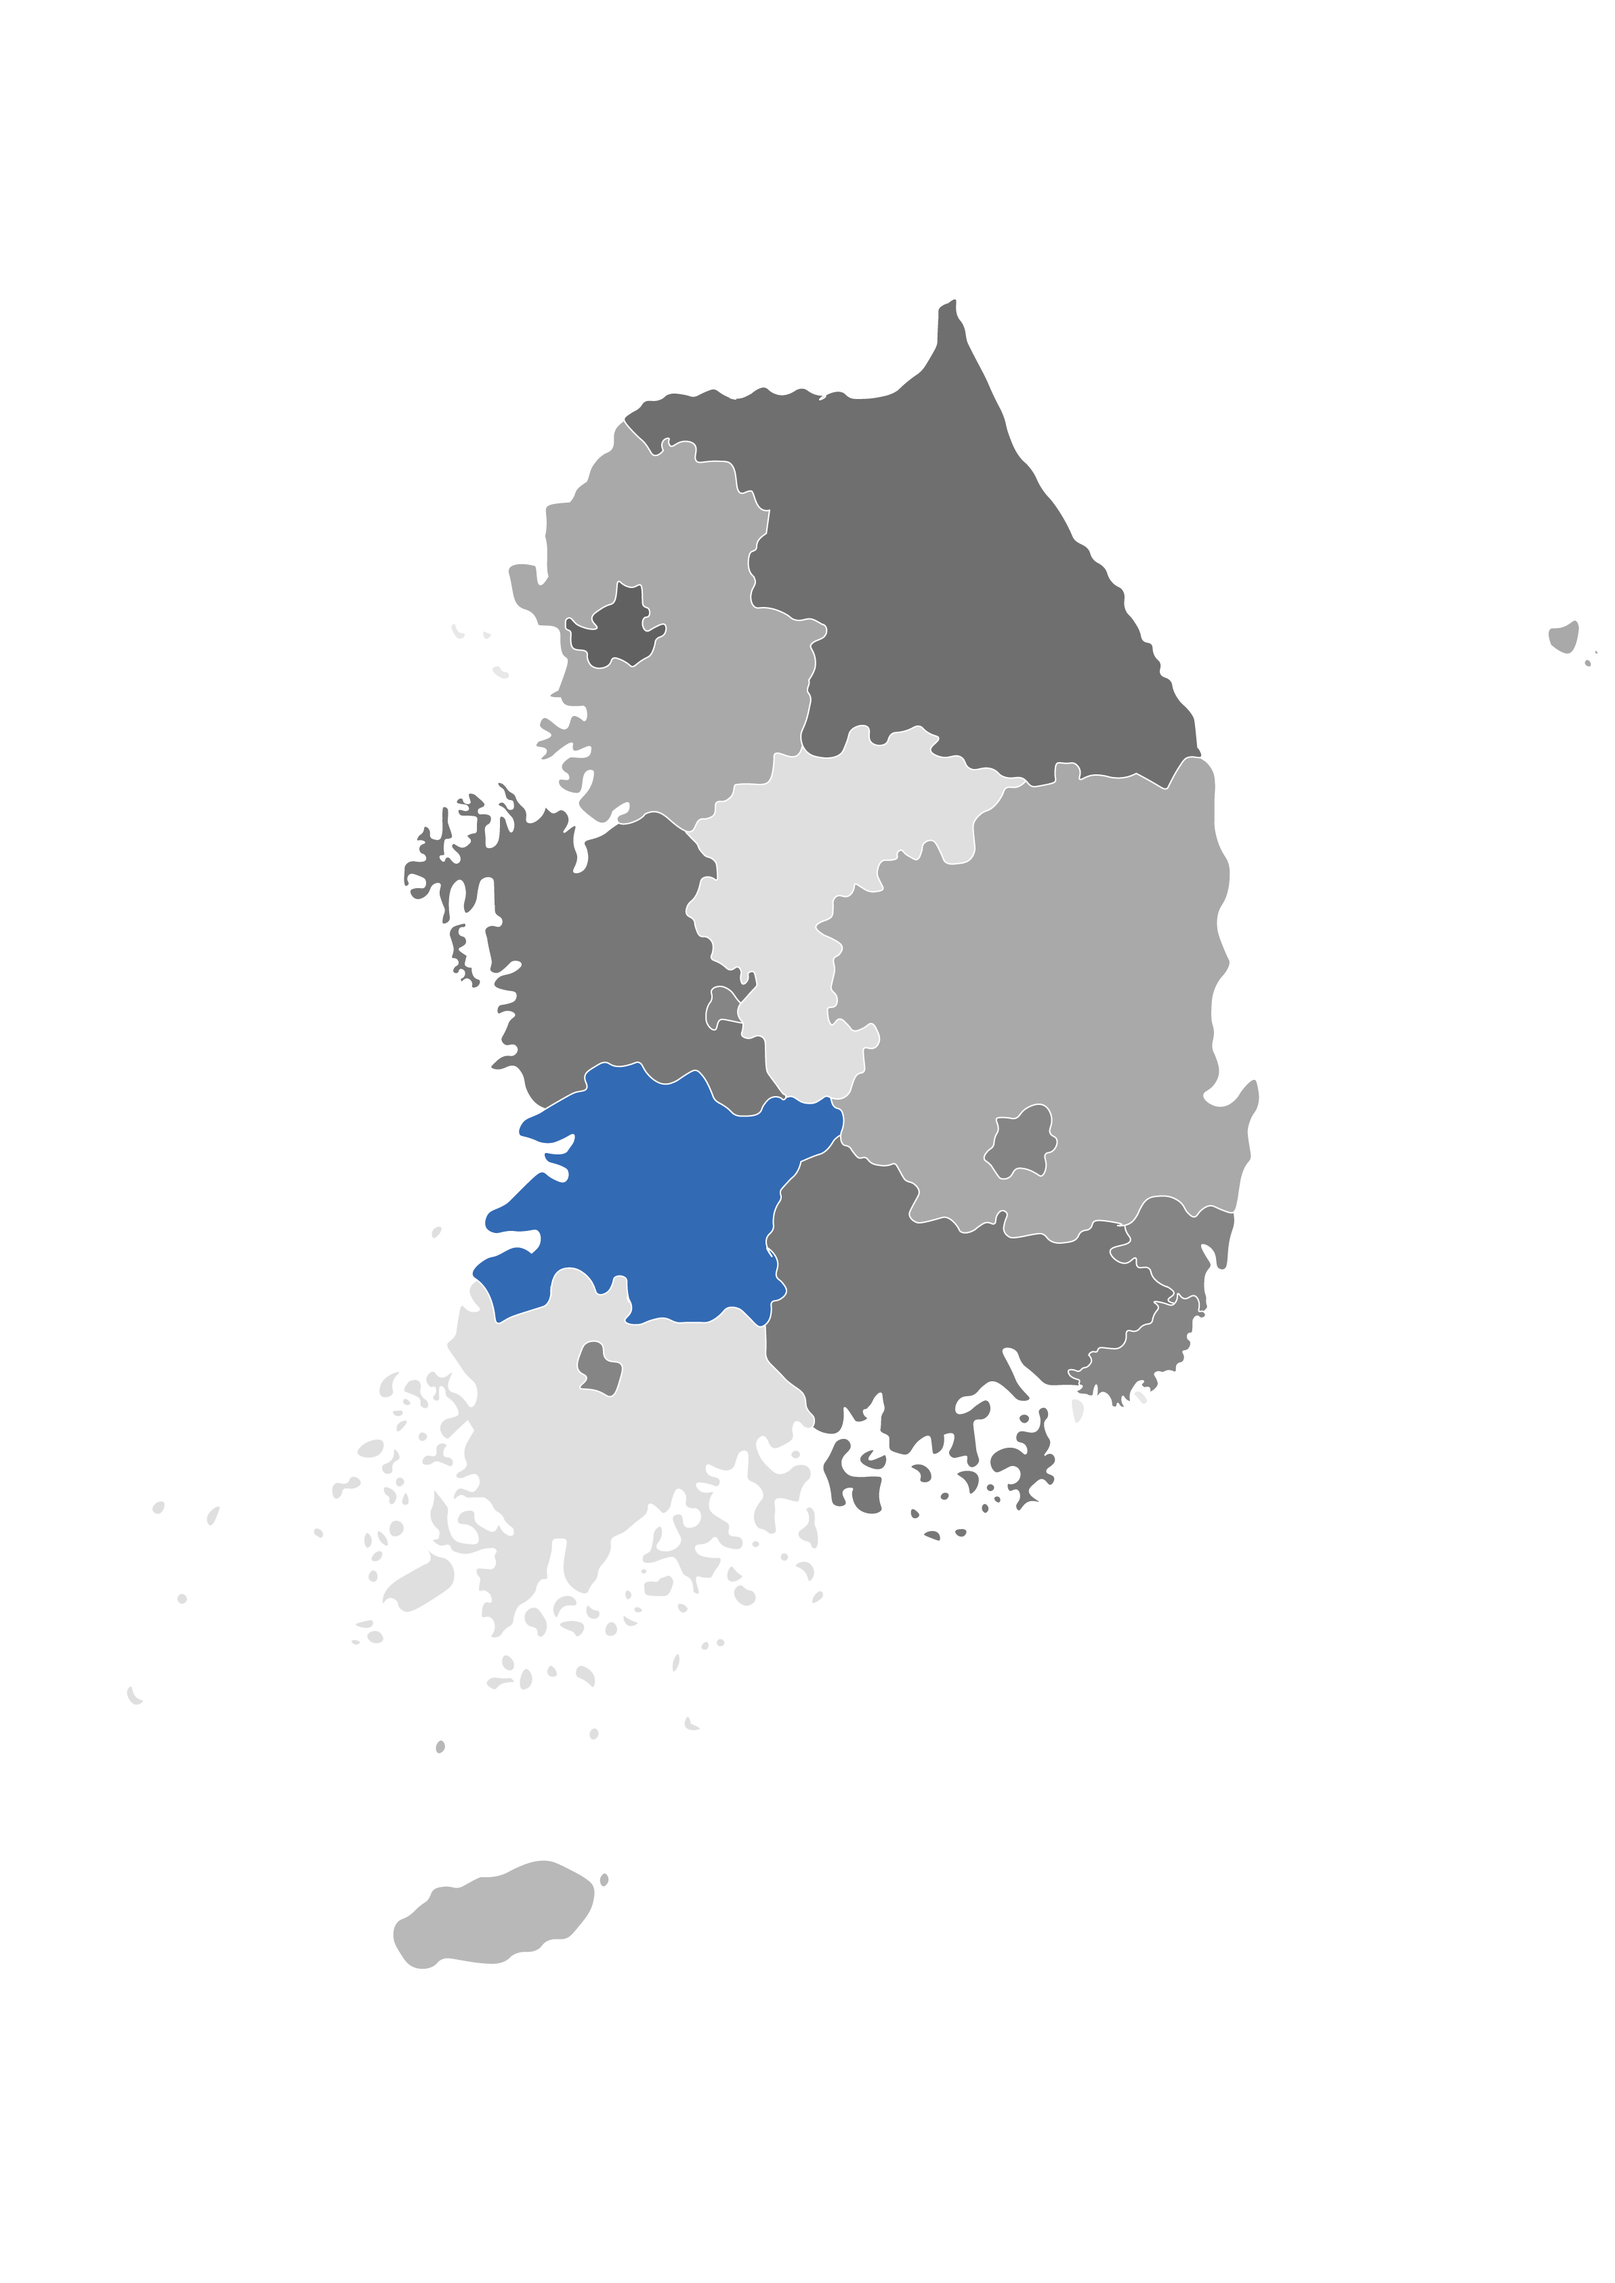
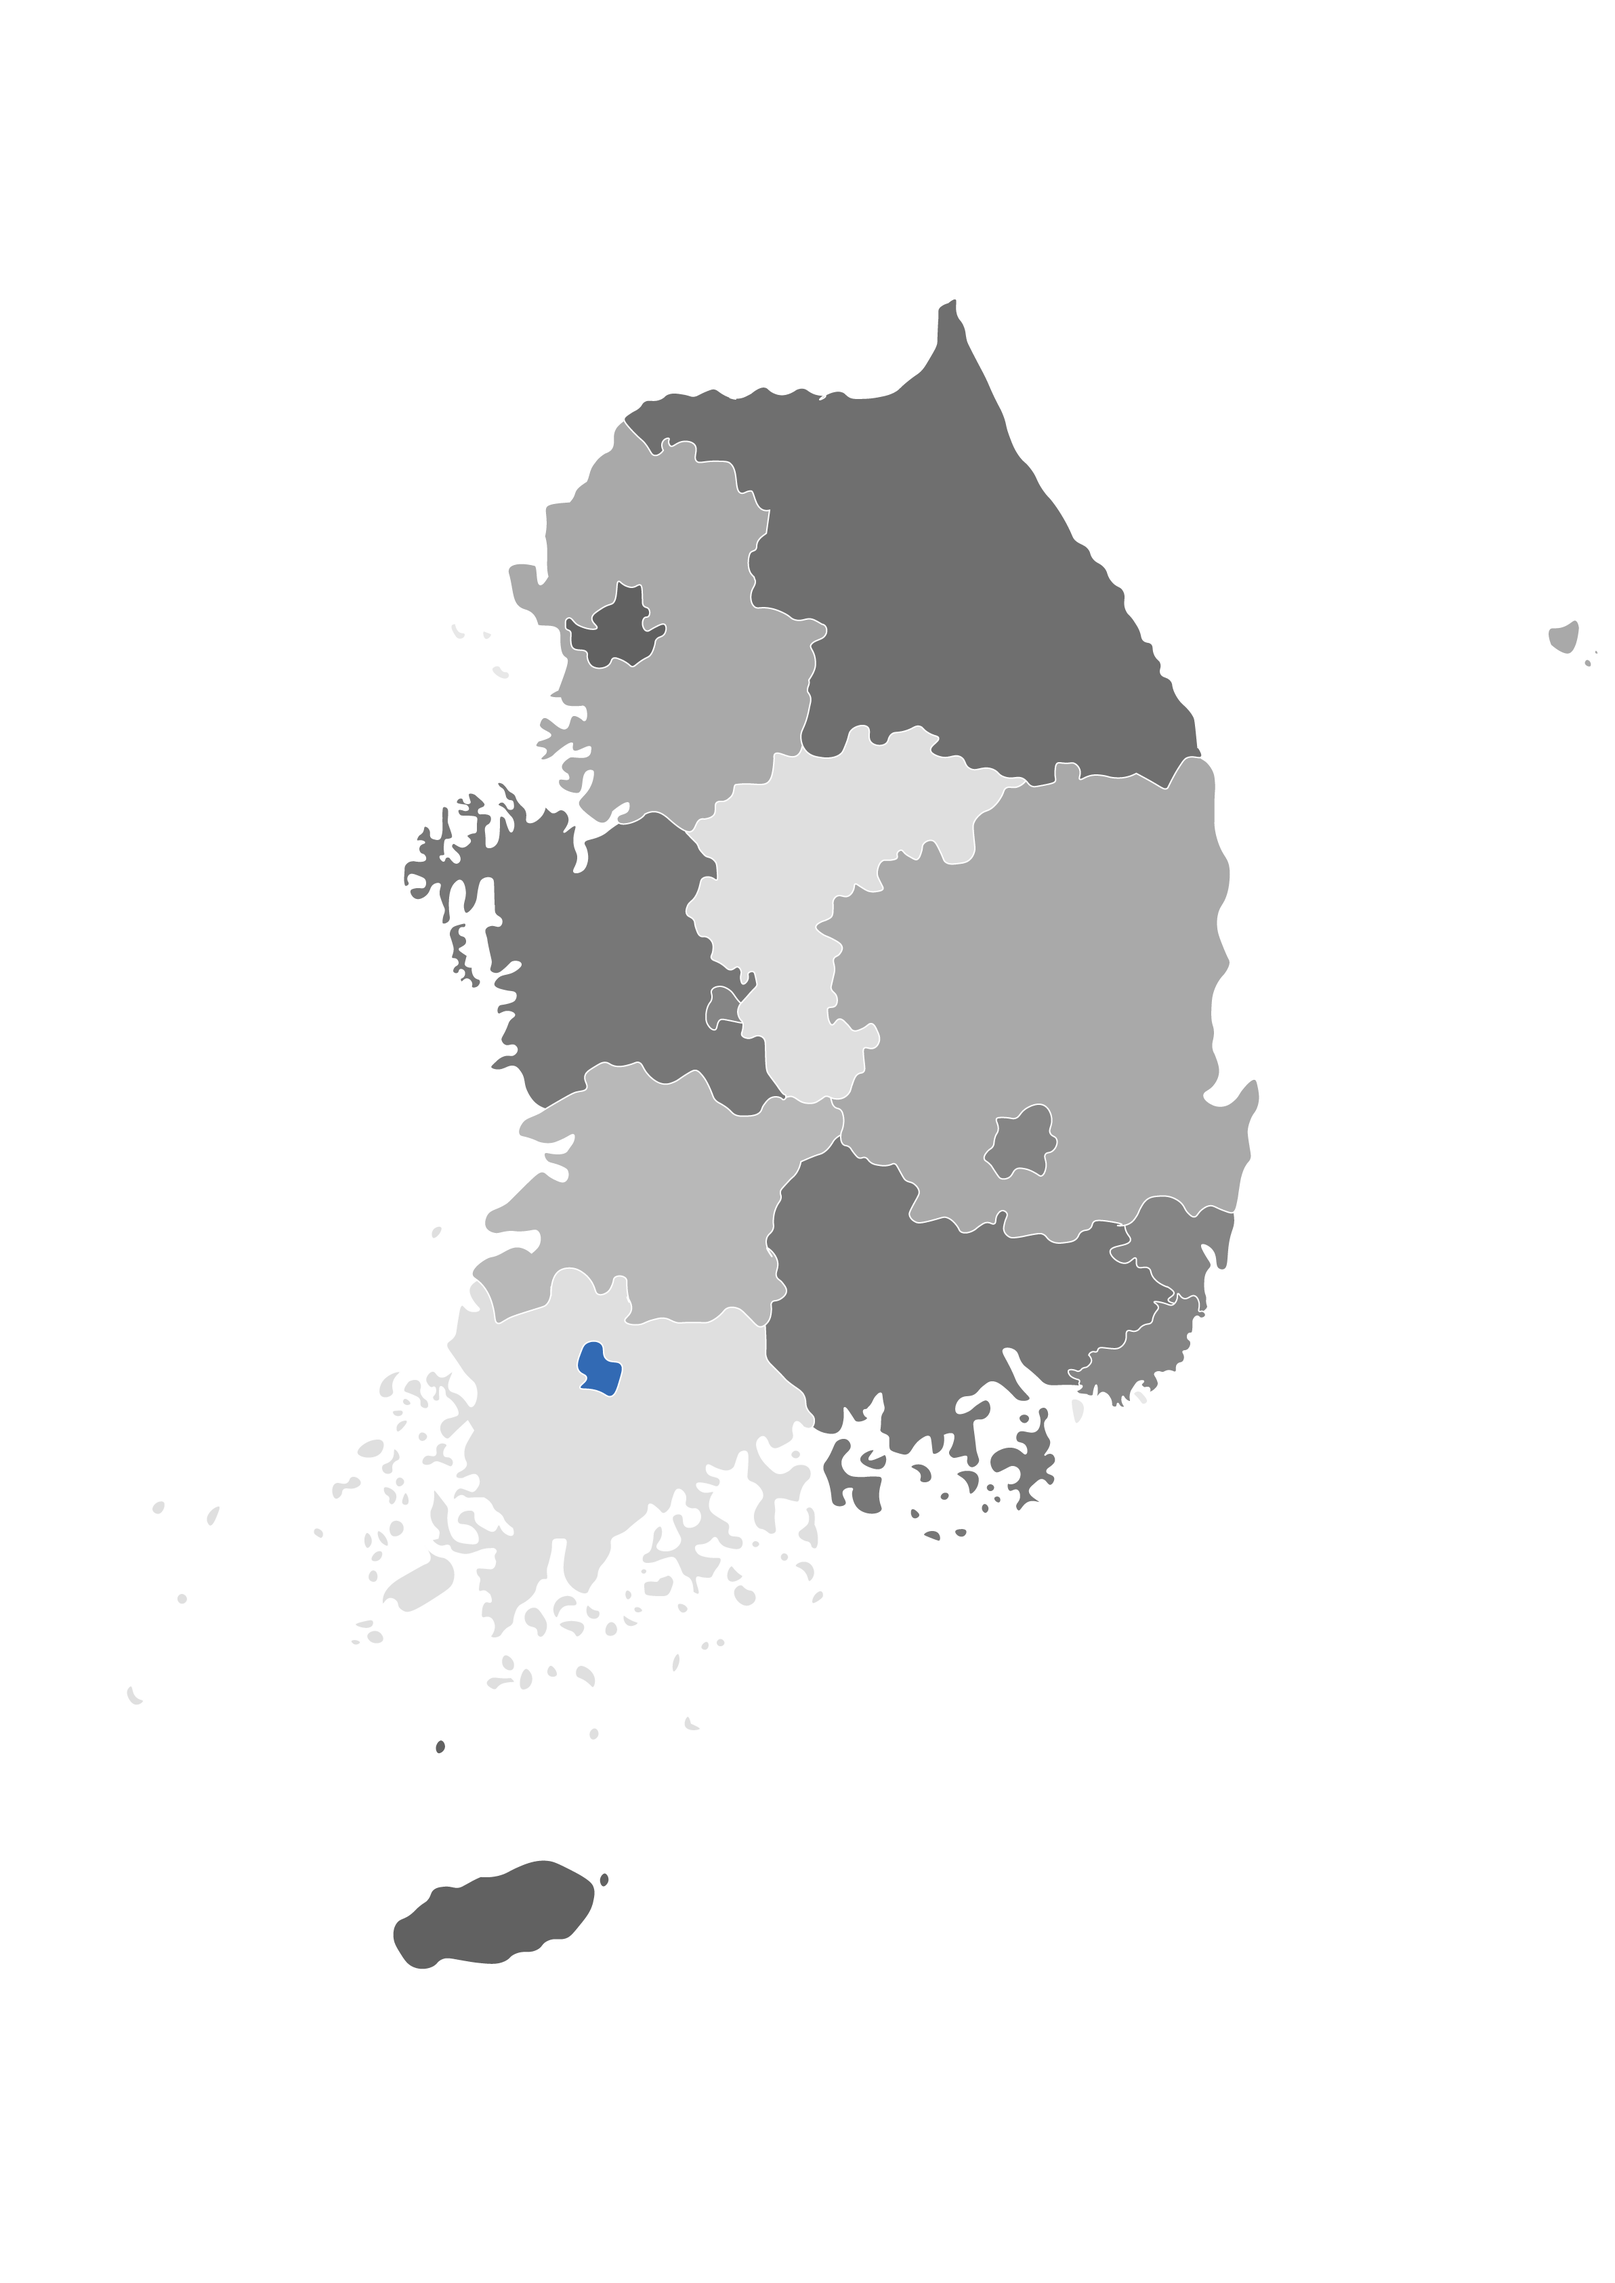
20220822

Changed region(s): [[0.2794, 0.4674, 0.5277, 0.6231], [0.2483, 0.8101, 0.3725, 0.8724]]

diff --git a/trn02/index.html b/trn02/index.html
@@ -197,7 +197,135 @@
             </div>
             <div class="content">
               <div class="map">
-                <img src="./img/map_gw.png" alt="" />
+                <img
+                  src="./img/map_gw.png"
+                  alt=""
+                  usemap="#image_map"
+                  class="real_map"
+                />
+                <map name="image_map" id="image_map">
+                  <area
+                    target="_self"
+                    alt="강원도"
+                    data-id="map_gw"
+                    href="gw"
+                    coords="930,617,1239,562,1410,436,1785,1110,1709,1152,1580,1133,1532,1158,1374,1104,1307,1087,1250,1097,1235,1123,1189,1108,1218,931,1119,887,1134,767,1031,674"
+                    shape="poly"
+                    onClick="javascript:alert('테스트입니다.');"
+                  />
+                  <area
+                    target="_self"
+                    alt="경기도"
+                    data-id="map_gy"
+                    href="경리도링크"
+                    coords="383,198,367,239,343,256,326,285,303,318,274,322,267,346,272,372,270,422,265,434,253,412,232,410,213,417,222,457,234,471,255,486,274,493,293,495,310,488,329,495,352,474,367,462,371,431,402,434,423,445,416,460,423,474,419,490,431,495,452,495,447,514,433,531,421,547,400,559,381,559,357,554,345,561,324,542,308,528,305,545,289,601,308,618,326,635,310,642,274,661,260,668,274,690,336,685,296,711,308,739,329,711,341,737,317,763,345,789,374,773,395,761,386,789,428,773,478,799,506,780,525,761,546,737,594,730,608,687,636,687,641,666,655,602,662,553,653,522,674,505,625,496,587,477,570,463,570,427,558,397,582,359,591,337,568,309,535,283,516,264,476,255,478,236,447,248,428,252"
+                    shape="poly"
+                  />
+                  <area
+                    target="_self"
+                    alt="서울"
+                    data-id="map_se"
+                    href=""
+                    coords="345,501,326,503,308,496,305,510,322,534,334,543,350,550,369,543,390,550,416,543,426,527,438,512,440,496,414,503,414,489,414,470,409,441,395,444,376,439,371,463,350,479"
+                    shape="poly"
+                  />
+                  <area
+                    target="_self"
+                    alt="충북"
+                    data-id="map_cb"
+                    href="충북링크"
+                    coords="523,874,516,843,485,808,513,789,530,768,558,742,601,732,613,694,646,699,672,697,707,697,731,664,769,683,797,666,826,659,833,676,871,697,859,706,892,709,918,713,934,720,956,732,939,742,925,765,899,777,897,803,899,836,880,846,847,825,830,815,816,834,795,827,771,843,757,874,740,888,703,893,674,926,670,943,693,978,688,1030,696,1054,686,1082,705,1085,736,1096,755,1096,755,1120,733,1156,717,1175,700,1196,674,1193,655,1201,629,1193,615,1184,594,1156,573,1099,558,1080,580,1030,575,1007,563,1016,549,1000,525,990,518,964,502,950,490,931,485,912,506,881"
+                    shape="poly"
+                  />
+                  <area
+                    target="_self"
+                    alt="충남"
+                    data-id="map_cn"
+                    href="충남링크"
+                    coords="331,827,376,796,423,780,468,813,504,846,504,869,471,926,506,978,539,1009,558,1026,556,1042,523,1028,509,1047,497,1082,518,1101,551,1094,570,1120,591,1158,601,1184,584,1210,537,1215,490,1151,452,1177,409,1144,374,1151,334,1153,326,1175,260,1203,227,1153,187,1153,45,846,192,711,300,768"
+                    shape="poly"
+                  />
+                  <area
+                    target="_self"
+                    alt="대전"
+                    data-id="map_dj"
+                    href=""
+                    coords="528,1080,518,1094,502,1080,513,1049,528,1037,551,1049,554,1068,549,1080"
+                    shape="poly"
+                  />
+                  <area
+                    target="_self"
+                    alt="경북"
+                    data-id="map_gb"
+                    href=""
+                    coords="704,1205,751,1169,754,1148,765,1103,754,1084,713,1072,704,1048,699,996,706,963,692,942,713,904,777,864,787,840,848,840,879,855,912,835,917,783,945,754,974,745,1026,743,1035,719,1059,733,1092,733,1127,731,1149,731,1187,752,1220,698,1248,721,1274,1026,1253,1134,1253,1174,1248,1205,1312,1179,1319,1223,1307,1261,1310,1306,1293,1330,1281,1356,1255,1358,1227,1361,1191,1339,1163,1349,1127,1365,1101,1377,1059,1377,1038,1401,1007,1403,959,1398,945,1370,905,1375,889,1387,860,1372,818,1380,825,1335,735,1285,896,1281,913,1291,925,1317,977,1317,1017,1310,1024,1286,1026,1269,1029,1232,996,1194,965,1217,937,1220,922,1239,918,1255,899,1331,705,1260,707,1262,700,1248,719,1272,702,1248,707,1220,714,1253,702,1248"
+                    shape="poly"
+                  />
+                  <area
+                    target="_self"
+                    alt="대구"
+                    data-id="map_dg"
+                    href=""
+                    coords="915,1279,933,1260,936,1236,934,1227,962,1226,995,1207,1015,1217,1015,1236,1012,1243,1023,1262,1019,1273,1010,1278,1006,1306,1000,1311,973,1300,961,1306,947,1317,933,1305,916,1291"
+                    shape="poly"
+                  />
+                  <area
+                    target="_self"
+                    alt="전북"
+                    data-id="map_jb"
+                    href=""
+                    coords="452,1173,489,1158,510,1181,519,1200,546,1221,587,1223,594,1207,613,1196,622,1200,637,1200,654,1205,684,1197,694,1214,702,1221,703,1242,700,1254,682,1268,649,1287,613,1327,606,1360,597,1396,593,1423,606,1443,610,1467,619,1481,611,1494,599,1494,596,1518,583,1530,565,1515,545,1502,506,1524,467,1526,450,1521,412,1530,389,1527,399,1509,391,1469,378,1459,357,1483,346,1486,337,1468,312,1453,295,1447,283,1460,273,1481,269,1499,243,1511,199,1526,187,1492,165,1456,182,1440,211,1423,247,1424,261,1414,258,1392,224,1395,196,1394,184,1377,192,1364,238,1323,263,1304,294,1324,302,1314,300,1300,268,1279,295,1280,311,1252,273,1263,232,1250,244,1227,318,1185,326,1185,326,1165,357,1145,373,1152,404,1145,430,1169"
+                    shape="poly"
+                  />
+                  <area
+                    target="_self"
+                    alt="광주"
+                    data-id="map_gg"
+                    href="광주링크"
+                    coords="384,1593,371,1636,342,1629,321,1624,328,1611,320,1595,324,1573,341,1560,346,1554"
+                    shape="poly"
+                  />
+                  <area
+                    target="_self"
+                    alt="전남"
+                    data-id="map_jn"
+                    href="전남링크"
+                    coords="332,1549,313,1582,312,1596,311,1621,363,1637,393,1619,391,1585,333,1546,379,1525,412,1524,441,1522,472,1530,499,1527,543,1501,583,1532,590,1568,613,1603,643,1645,652,1669,653,1680,614,1690,603,1712,564,1722,541,1751,525,1840,466,1879,422,1902,343,1922,283,1928,211,1924,110,1924,50,1832,54,1695,74,1577,125,1517,144,1503,164,1504,155,1477,161,1466,184,1505,186,1523,191,1535,230,1519,266,1506,280,1492,286,1467,307,1453,325,1466,335,1482,347,1485,363,1486,373,1472,386,1463,390,1486,390,1513,359,1537,370,1530"
+                    shape="poly"
+                  />
+                  <area
+                    target="_self"
+                    alt="경남"
+                    data-id="map_kn"
+                    href=""
+                    coords="599,1527,605,1567,610,1591,645,1629,668,1667,668,1681,697,1691,715,1693,725,1781,845,1851,917,1851,1014,1798,1055,1767,1090,1708,1024,1661,1015,1618,1034,1604,1059,1580,1073,1560,1104,1557,1120,1558,1125,1541,1130,1533,1156,1526,1163,1508,1162,1496,1183,1488,1161,1462,1124,1448,1099,1429,1127,1407,1117,1382,1085,1379,1071,1394,1058,1405,1034,1409,1002,1402,958,1404,936,1388,913,1395,884,1398,862,1376,819,1380,804,1370,812,1332,794,1313,778,1295,751,1300,732,1286,706,1267,698,1265,676,1276,655,1293,639,1317,620,1337,610,1378,609,1409,614,1438,613,1456,626,1481,613,1495,605,1498"
+                    shape="poly"
+                  />
+                  <area
+                    target="_self"
+                    alt="울산"
+                    data-id="map_us"
+                    href=""
+                    coords="1201,1488,1176,1459,1168,1444,1155,1435,1144,1426,1121,1426,1134,1407,1130,1388,1160,1356,1176,1342,1200,1348,1214,1364,1234,1374,1254,1360,1268,1366,1281,1367,1284,1386,1277,1428,1272,1445,1244,1503"
+                    shape="poly"
+                  />
+                  <area
+                    target="_self"
+                    alt="부산"
+                    data-id="map_busan"
+                    href=""
+                    coords="1205,1110,1199,1032,1218,937,1180,902,1121,889,1117,832,1138,750,1100,712,1031,672,989,645,965,670,925,615,1128,560,1317,575,1387,512,1399,434,1441,461,1536,661,1776,1104,1743,1135,1711,1156,1677,1131,1618,1144,1568,1125,1551,1150,1481,1140,1391,1108,1359,1070,1304,1091"
+                    shape="poly"
+                  />
+                  <area
+                    target="_self"
+                    alt="제주"
+                    data-id="map_jj"
+                    href=""
+                    coords="24,2428,89,2368,279,2313,352,2359,347,2444,265,2470,142,2482,71,2479"
+                    shape="poly"
+                  />
+                </map>
                 <div class="map_txt">
                   <h3>STORE IN <span>GANWON</span></h3>
                   <strong>1,687</strong>

diff --git a/trn02/js/jquery.rwdImageMaps.min.js b/trn02/js/jquery.rwdImageMaps.min.js
@@ -1,0 +1,11 @@
+/*
+* rwdImageMaps jQuery plugin v1.6
+*
+* Allows image maps to be used in a responsive design by recalculating the area coordinates to match the actual image size on load and window.resize
+*
+* Copyright (c) 2016 Matt Stow
+* https://github.com/stowball/jQuery-rwdImageMaps
+* http://mattstow.com
+* Licensed under the MIT license
+*/
+;(function(a){a.fn.rwdImageMaps=function(){var c=this;var b=function(){c.each(function(){if(typeof(a(this).attr("usemap"))=="undefined"){return}var e=this,d=a(e);a("<img />").on('load',function(){var g="width",m="height",n=d.attr(g),j=d.attr(m);if(!n||!j){var o=new Image();o.src=d.attr("src");if(!n){n=o.width}if(!j){j=o.height}}var f=d.width()/100,k=d.height()/100,i=d.attr("usemap").replace("#",""),l="coords";a('map[name="'+i+'"]').find("area").each(function(){var r=a(this);if(!r.data(l)){r.data(l,r.attr(l))}var q=r.data(l).split(","),p=new Array(q.length);for(var h=0;h<p.length;++h){if(h%2===0){p[h]=parseInt(((q[h]/n)*100)*f)}else{p[h]=parseInt(((q[h]/j)*100)*k)}}r.attr(l,p.toString())})}).attr("src",d.attr("src"))})};a(window).resize(b).trigger("resize");return this}})(jQuery);

diff --git a/trn02/js/common.js b/trn02/js/common.js
@@ -109,4 +109,24 @@ window.addEventListener("DOMContentLoaded", () => {
       ? document.querySelector("header").classList.add("on")
       : document.querySelector("header").classList.remove("on");
   });
+
+  //img map
+  //const map_box = document.querySelector("#image_map");
+  const map_area = document.querySelectorAll("#image_map area");
+  const map_tit = document.querySelector(".map_txt h3 span");
+  const map_num = document.querySelector(".map_txt strong");
+  map_area.forEach((el, idx) => {
+    //console.log(el);
+    //ele.setAttribute("data-height", imgMax);
+    const name = el.getAttribute("data-id");
+    const map_name = el.getAttribute("alt");
+    //console.log(name);
+    el.setAttribute("onmouseover", `change_img('./img/${name}.png')`);
+    el.setAttribute("onmouseout", `change_img('./img/map.png')`);
+  });
 });
+function change_img(img) {
+  var real_img = document.querySelector(".real_map");
+  real_img.src = img;
+  //console.log(img);
+}

diff --git a/trn02/css/common.css b/trn02/css/common.css
@@ -245,6 +245,7 @@ section.ad_visual .stit p span {
   box-shadow: 0px 0px 3px rgba(0, 0, 0, 0.25);
   overflow: hidden;
   text-align: center;
+  display: none;
 }
 .map_txt h3 {
   font-weight: 600;
@@ -348,6 +349,21 @@ footer .copy {
 }
 .mbt {
   display: none;
+}
+/*이미지맵*/
+img[usemap] {
+  border: none;
+  height: auto;
+  max-width: 100% !important;
+  width: auto;
+}
+@media (max-width: 991px) {
+  img[usemap] {
+    border: none;
+    height: 100% !important;
+    max-width: 100%;
+    width: 100% !important;
+  }
 }
 
 @media (max-width: 1024px) {
